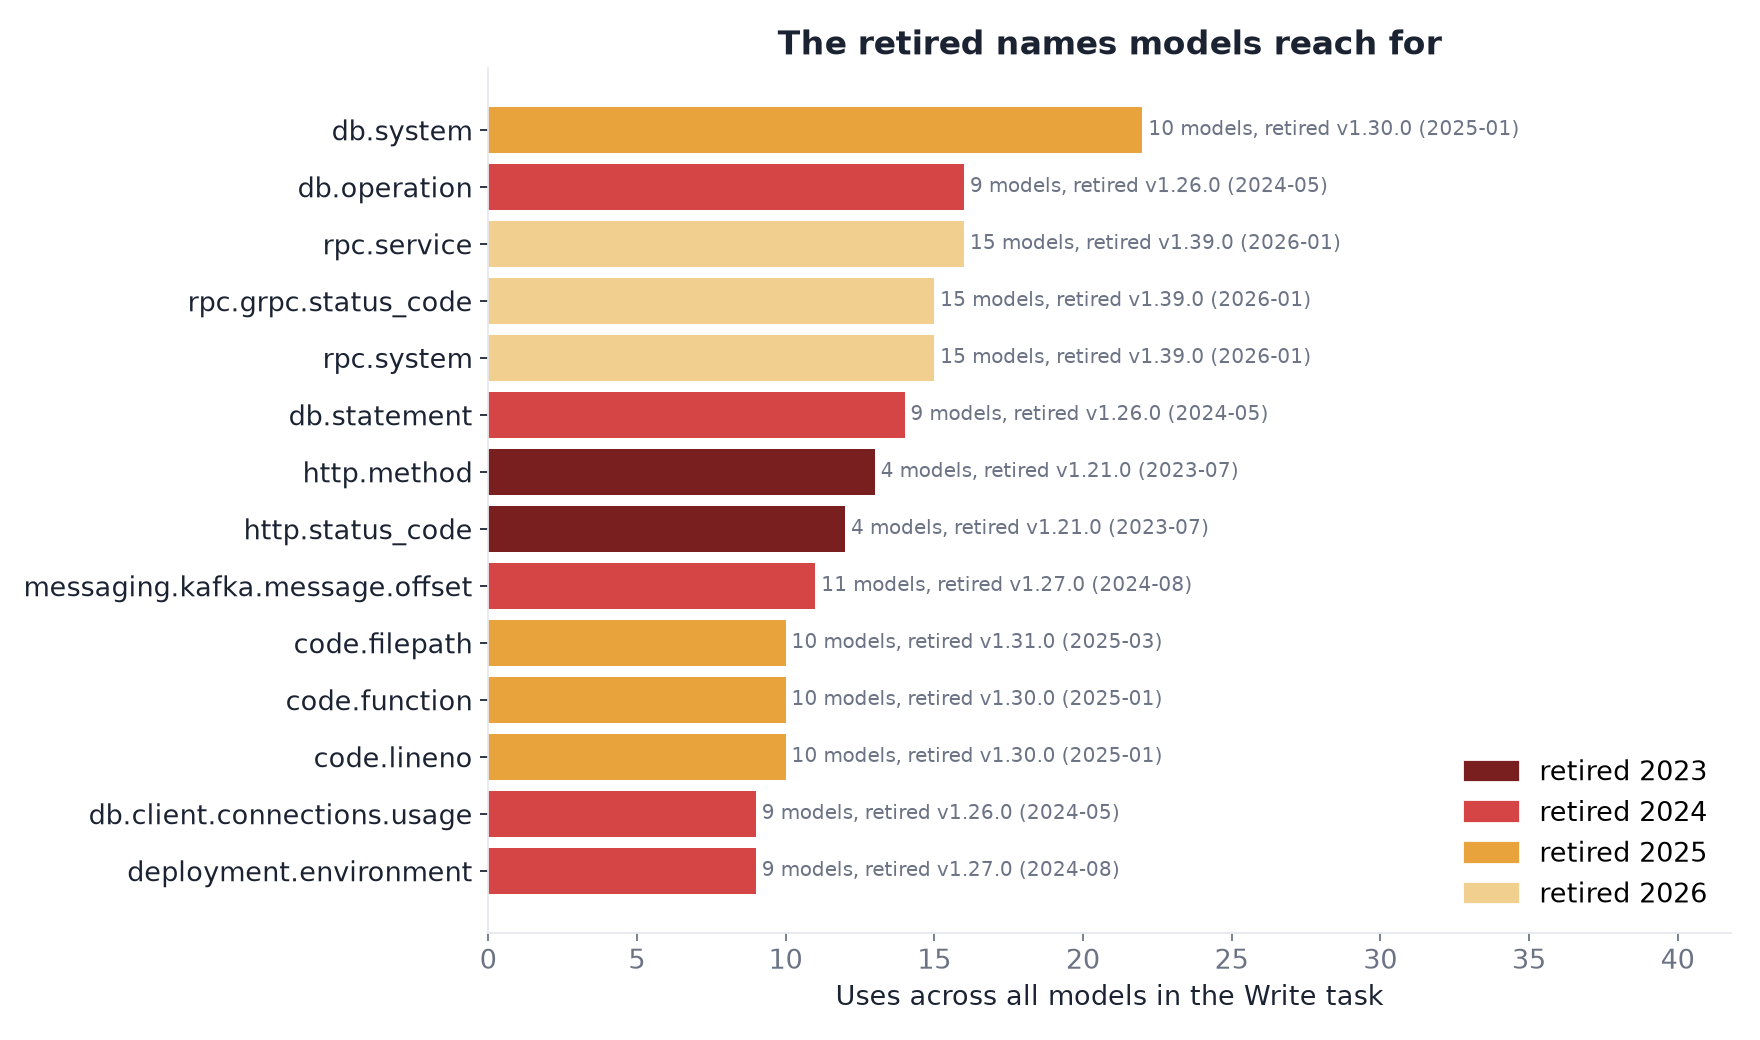
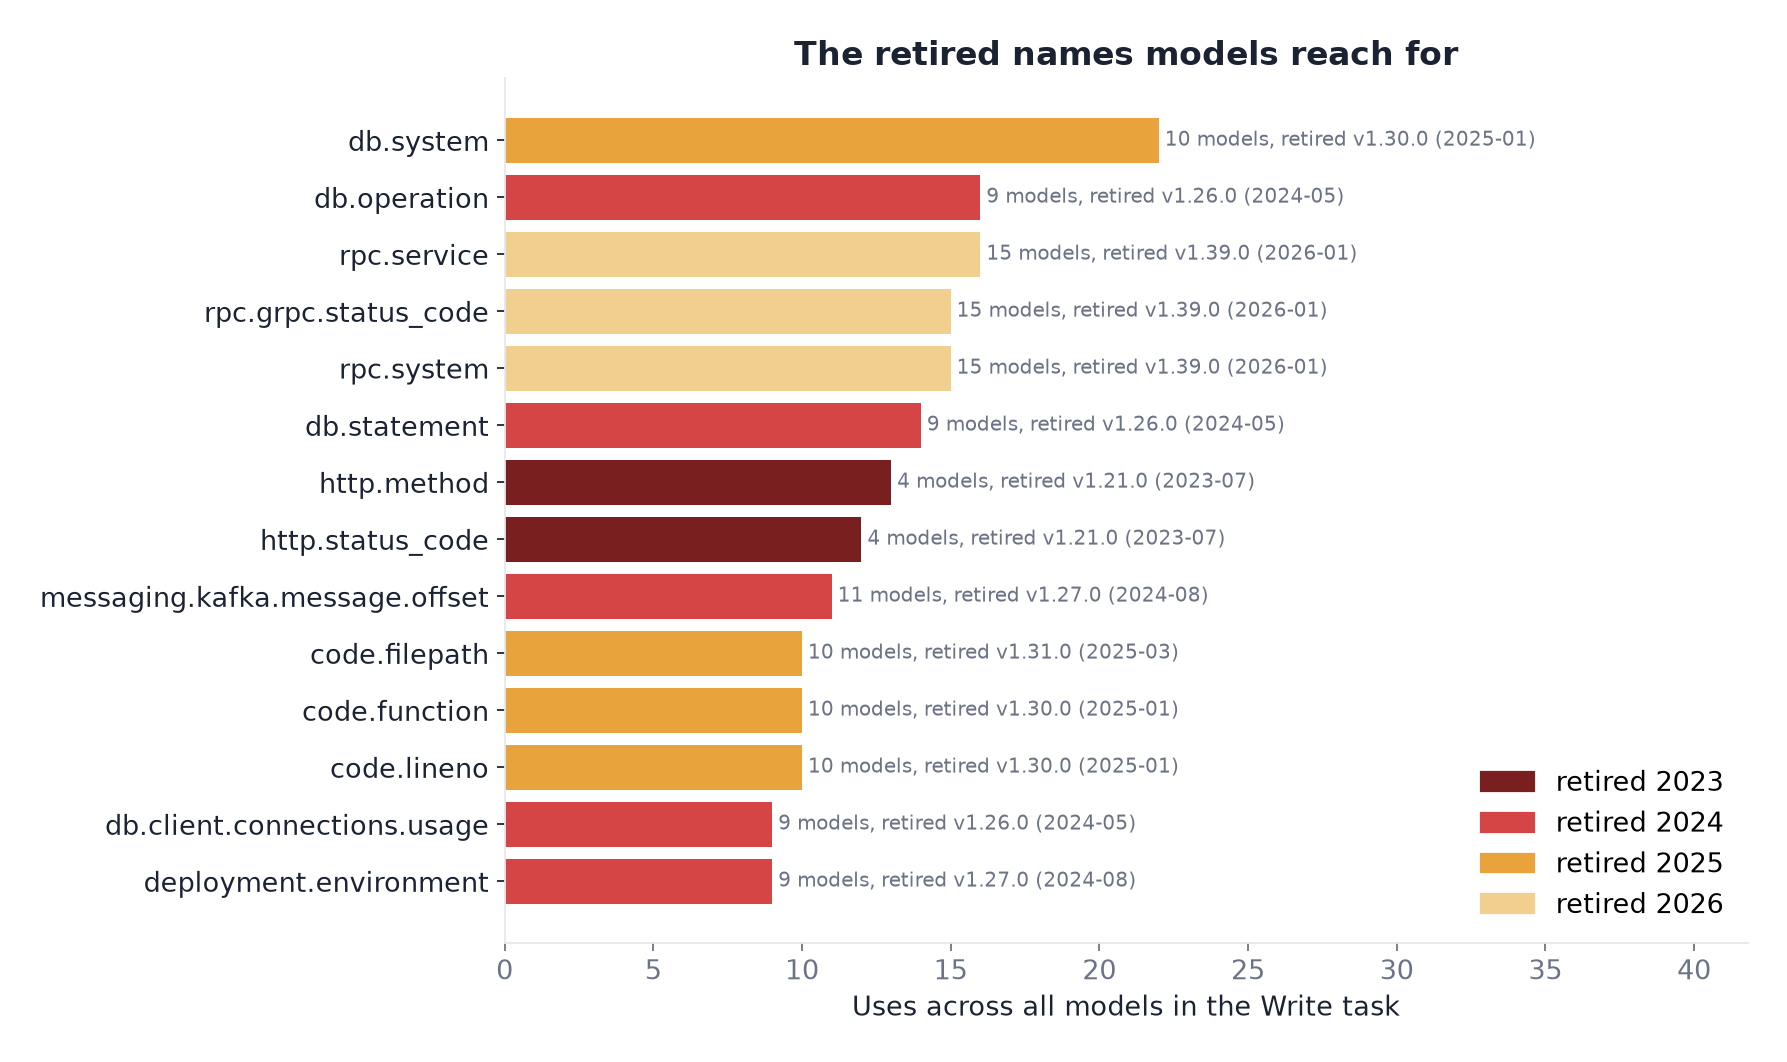
Add the cover image, count every Fix result in the half-fix chart, trim chart margins
Show the knew-but-wrote chart on the results site.

diff --git a/index.html b/index.html
@@ -165,6 +165,12 @@ footer .wrap { display: flex; flex-wrap: wrap; gap: 8px 20px; justify-content: s
       <figcaption>Write is where most models lose ground. Knowing the current name when asked is not the same as writing it in code.</figcaption>
     </figure></div>
 
+    <h3>It told me the new name, then wrote the old one</h3>
+    <div class="card"><figure>
+      <img src="results/charts/10_knew_but_wrote.png" alt="Retired names each model wrote although it named the correct replacement in the Know task" loading="lazy">
+      <figcaption>Same model, same name. Asked directly, the model gives the current name. Asked for code, it writes the retired one.</figcaption>
+    </figure></div>
+
     <h3>The retired names are old, not new</h3>
     <p class="sub" id="f-age">Most retired names that models write were retired more than a year before the run. This is stale training data, not a fast-moving spec.</p>
     <div class="grid2">

diff --git a/charts.py b/charts.py
@@ -31,7 +31,7 @@ def finish(fig, ax, name, note=None):
     if note:
         fig.text(0.01, 0.01, note, color=MUTED, fontsize=9)
     fig.tight_layout(rect=(0, 0.03 if note else 0, 1, 1))
-    fig.savefig(OUT / name)
+    fig.savefig(OUT / name, bbox_inches="tight", pad_inches=0.25)
     plt.close(fig)
     print("saved", name)
 
@@ -123,8 +123,8 @@ finish(fig, ax, "05_generations.png")
 out = S["rpc_outcomes"]
 cats = ["correct", "metric fixed, retired attributes added", "half fix: new unit, retired name", "renamed to a name that does not exist", "right name, values not converted", "left unchanged"]
 cat_color = {cats[0]: GOOD, cats[1]: "#7cc9a5", cats[2]: WARN, cats[3]: "#8e6bd6", cats[4]: "#c98a2a", cats[5]: BAD}
-counts = collections.Counter(out.get(m, "other") for m in order)
-fig, ax = plt.subplots(figsize=(11, 3.4))
+counts = collections.Counter(out.values())  # every model with a Fix result
+fig, ax = plt.subplots(figsize=(11, 2.9))
 left = 0
 for c in cats:
     n = counts.get(c, 0)
@@ -133,11 +133,10 @@ for c in cats:
         ax.text(left + n / 2, 0, f"{n}", ha="center", va="center", color="white", fontsize=13, fontweight="bold")
         left += n
 ax.set_yticks([])
-ax.set_xlim(0, len(order))
-ax.legend([plt.Rectangle((0, 0), 1, 1, color=cat_color[c]) for c in cats if counts.get(c)], [c for c in cats if counts.get(c)], frameon=False, loc="upper center", bbox_to_anchor=(0.5, -0.45), ncol=3, fontsize=10)
-ax.set_xlabel("Models")
+ax.set_xlim(0, len(out))
+ax.legend([plt.Rectangle((0, 0), 1, 1, color=cat_color[c]) for c in cats if counts.get(c)], [c for c in cats if counts.get(c)], frameon=False, loc="upper center", bbox_to_anchor=(0.5, -0.3), ncol=3, fontsize=10)
 ax.set_title("Fixing rpc.client.duration (ms): most models fixed the unit and kept the retired name")
-finish(fig, ax, "06_half_fix.png", "The half fix records seconds under a name the old spec defined in milliseconds, so it matches neither version.")
+finish(fig, ax, "06_half_fix.png", f"{len(out)} models with a Fix result. The half fix records seconds under a name the old spec defined in milliseconds, so it matches neither version.")
 
 # 7. Cost against score.
 fig, ax = plt.subplots(figsize=(10, 6))
@@ -192,3 +191,17 @@ if rows:
     n = sum(1 for v in vals if v)
     ax.set_title(f"{n} of {len(rows)} models knew the new name and wrote the old one anyway")
     finish(fig, ax, "10_knew_but_wrote.png", "Same model, same name: asked directly it gives the current name; asked to write code it uses the retired one.")
+
+# Cover image for the DEV post (1000 x 420).
+fig = plt.figure(figsize=(10, 4.2), dpi=200)
+fig.patch.set_facecolor("#0e131d")
+fig.text(0.05, 0.80, "SEMCONV DRIFT", color="#6d97f0", fontsize=13, fontweight="bold")
+fig.text(0.05, 0.60, "AI models still write OpenTelemetry", color="white", fontsize=25, fontweight="bold")
+fig.text(0.05, 0.47, "names the spec retired years ago", color="white", fontsize=25, fontweight="bold")
+fig.text(0.05, 0.31, 'attribute.String("db.system", "redis")', color="#f07272", fontsize=15, family="DejaVu Sans Mono")
+fig.text(0.05, 0.22, 'retired in v1.30.0; the current name is db.system.name', color="#98a1b4", fontsize=11)
+fig.text(0.05, 0.07, f"{sum(1 for r in S['board'] if r.get('write') is not None)} models  ·  4 Kaggle tasks  ·  1,563 names from 26 spec releases  ·  no AI judge",
+         color="#98a1b4", fontsize=11)
+fig.savefig(OUT / "00_cover.png", facecolor=fig.get_facecolor())
+plt.close(fig)
+print("saved 00_cover.png")
